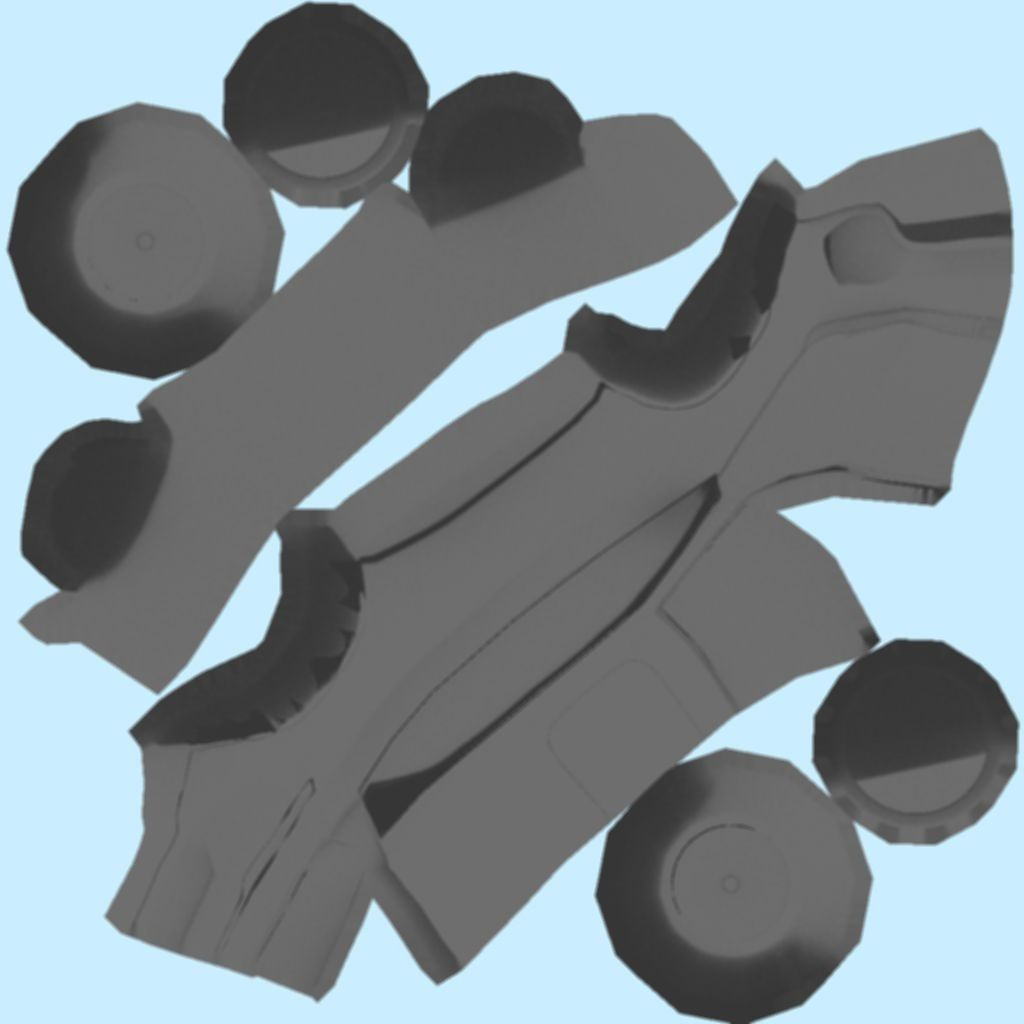
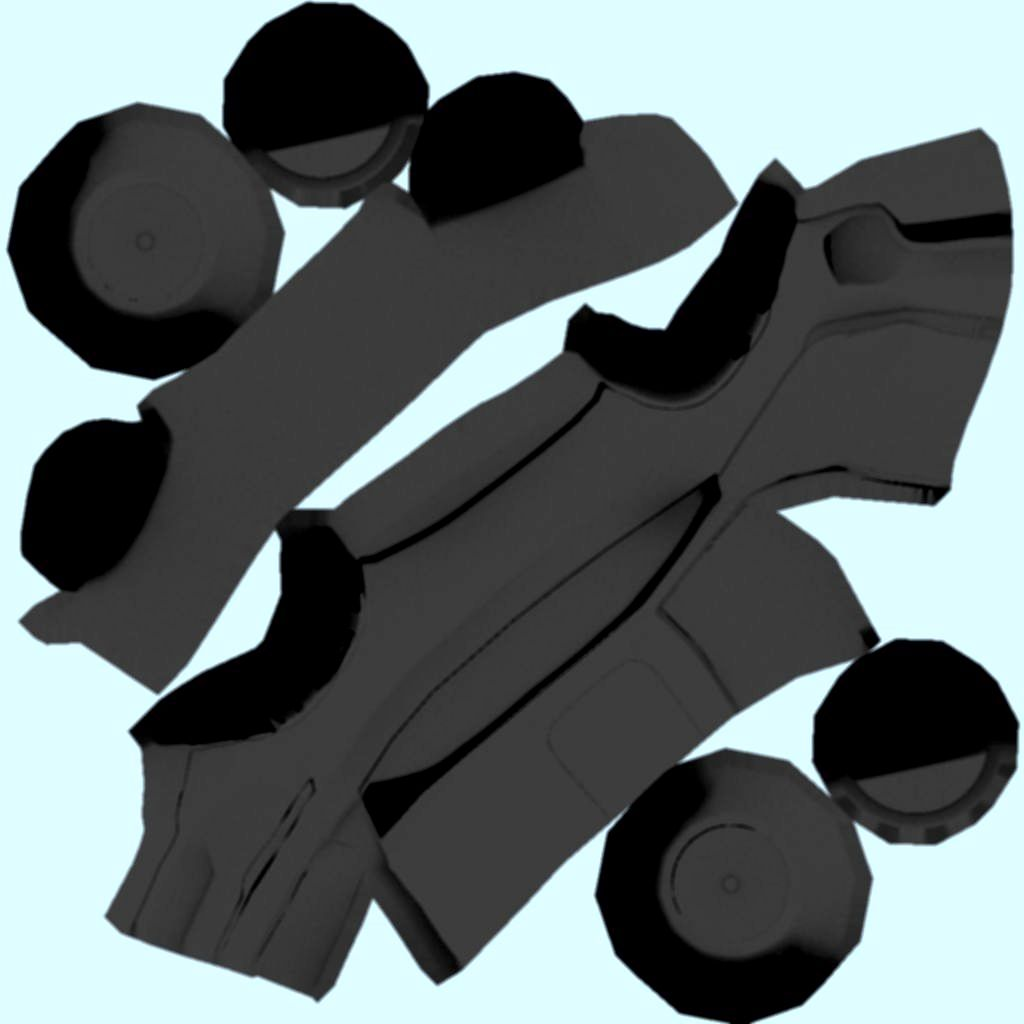
Add new main car
Adjust levels in car textures.

diff --git a/XaxisCluster/MainCar.qml b/XaxisCluster/MainCar.qml
@@ -1,0 +1,27 @@
+import QtQuick3D 1.12
+import QtQuick 2.12
+
+Model {
+    rotation.x: -90
+    rotation.y: 90
+    rotationOrder: Node.XYZr
+    orientation: Node.RightHanded
+    source: "meshes/MainCar.mesh"
+
+    DefaultMaterial {
+        id: mainCar_material
+        diffuseMap: Texture {
+            source: "maps/MainCar.jpg"
+        }
+        lighting: DefaultMaterial.NoLighting
+    }
+
+    DefaultMaterial {
+        id: mainCar_diffuse_material
+        lighting: DefaultMaterial.NoLighting
+    }
+    materials: [
+        mainCar_material,
+        mainCar_diffuse_material
+    ]
+}

diff --git a/XaxisCluster/AdasView.qml b/XaxisCluster/AdasView.qml
@@ -127,7 +127,7 @@ Item {
             position.y: 770
             position.z: -600
 
-            SuvOwn {
+            MainCar {
                 id: ownCar
                 property real xPos: midLane
                 scale: Qt.vector3d(6, 6, 6)
